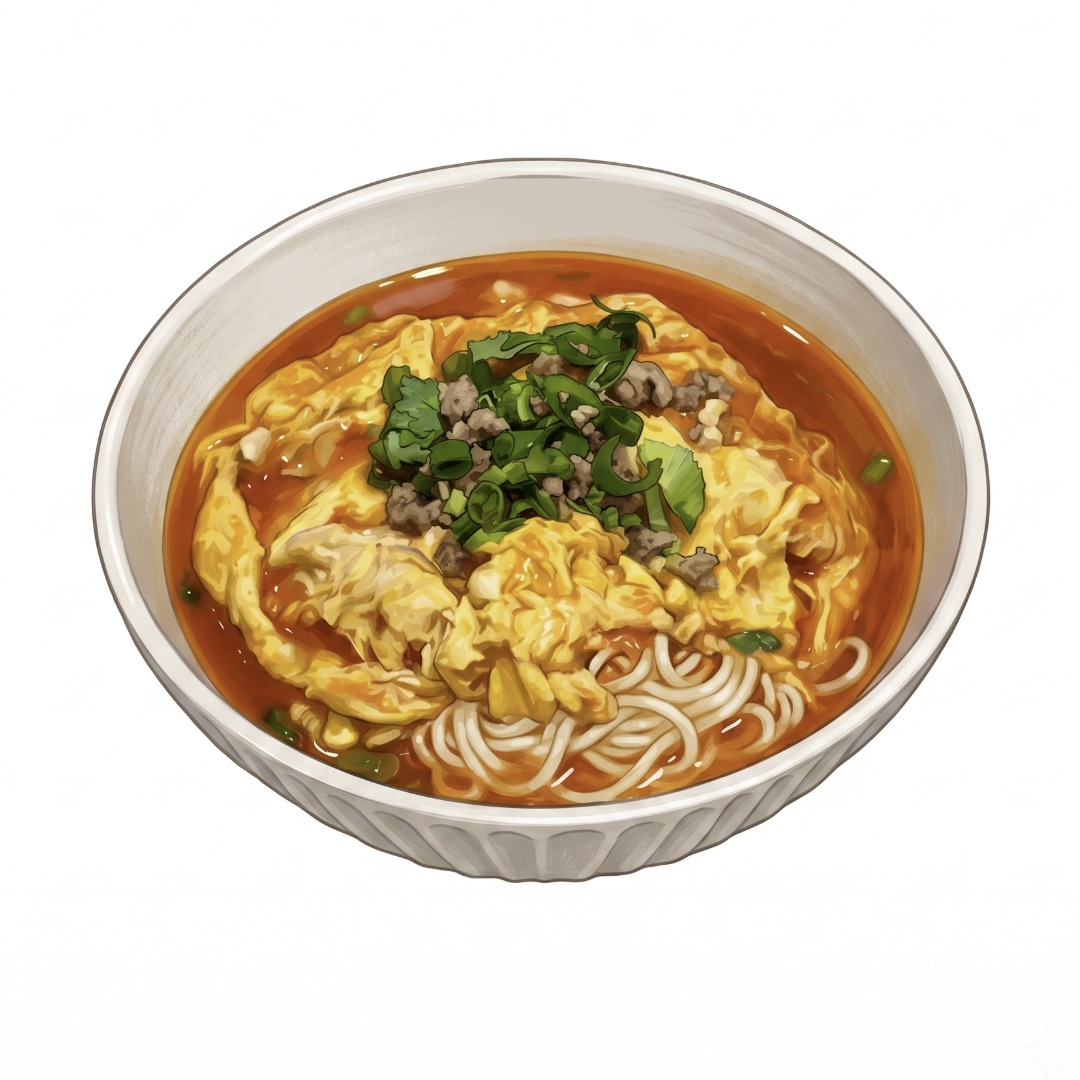
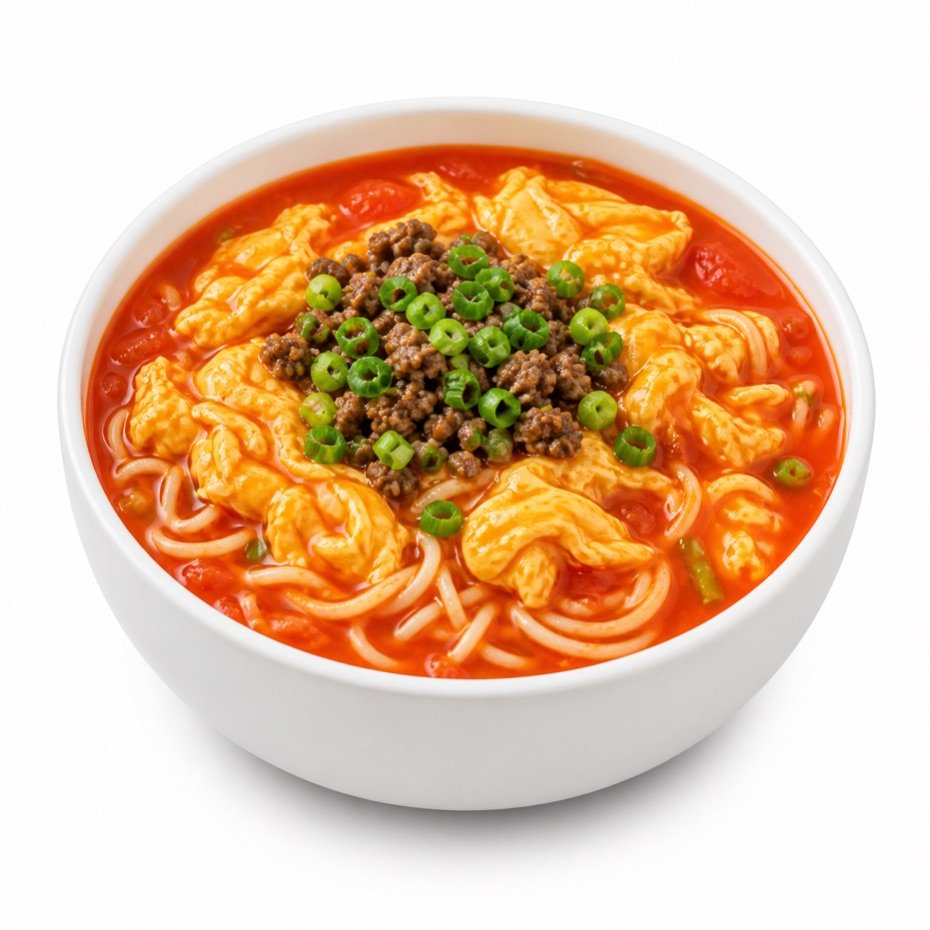
레시피 4개를 추가하고 카드 이미지 9장을 교체한다
레시피
- 예나(의 친구)소스 · 쯔양소스 · 두유피말이 추가 (범이소스는 앞 커밋)
- 두유피말이는 주문 항목 셋이 새로 필요해 ORDER_ITEMS 에 추가했다
  (우삼겹 · 두유피튀김 · 거름망 — 거름망은 도구라 맨 끝)

표기
- 재료 단위의 국자를 스푼으로 옮겼다. 원본 카드가 T(테이블스푼)를 쓰고
  앱이 그것을 스푼으로 적어 왔기 때문이다. 냄비에서 뜨는 주문 줄의 국자
  두 곳(세훈소스 마장 · 토마토탕)은 그대로 두었다
- 맑은 탕을 부르는 말을 세 곳에서 「맹물」로 통일했다
  (메뉴 탭 · 가이드 글 원본과 guide.html · 레시피 주문 항목)
- 세훈소스(간장) 팁을 원본 카드대로 「홍탕 1T」로 되돌렸다

이미지
- 탕 3장(마라훠궈탕·스키야키탕·토마토탕)과 히든메뉴 5장 교체
- 바뀐 파일은 ?v= 를 올렸다. 안 올리면 폰에 옛 그림이 남는다
- AI로 만든 그림에 붙어 있던 출처 「Gemini AI」 8개를 뺐다(사용자 지시)

셀럽
- 쯔양·예나 사진과 출처 표기 추가 (커먼즈 CC BY, credits.html 중복 정리)

diff --git a/script.js b/script.js
@@ -24,7 +24,7 @@
     // 7) 간·기타
     '설탕', '소금', '미원', '만구향',
   ];
-  const ORDER_ITEMS = ['공깃밥', '날계란', '생면', '만두', '팡가시우메기', '새우완자', '유부', '우유/청유 마라훠궈', '토마토탕훠궈', '버섯탕훠궈', '맑은 탕/물'];  // 직원에게 주문하는 항목 (order 에 쓰는 이름)
+  const ORDER_ITEMS = ['공깃밥', '날계란', '생면', '만두', '팡가시우메기', '우삼겹', '새우완자', '유부', '두유피튀김', '우유/청유 마라훠궈', '토마토탕훠궈', '버섯탕훠궈', '맑은 탕/맹물', '거름망'];  // 직원에게 주문하는 항목 (order 에 쓰는 이름)
   const UNITS = ['스푼', '국자', '티스푼', '바퀴', '개', '공기', '그릇', '접시', '인분', '넉넉하게', '적당히', '한 꼬집'];  // 정식 단위 (국자=탕 국물 뜰 때, 그릇=소스바 종지)
 
   // ── 매장(지점) 목록 ──
@@ -174,7 +174,7 @@
       order: [['우유/청유 마라훠궈', '1', '스푼']],
       ings: [['간장소스', '3', '스푼'], ['다진 파', '2', '스푼'], ['다진 마늘', '3', '스푼'], ['양파', '3', '스푼'], ['고수', '2', '스푼'], ['태국고추', '', '적당히']],
       steps: [],
-      tip: '홍탕 1스푼은 취향에 맞게 넣기' },
+      tip: '홍탕 1T는 취향에 맞게 넣기' },
     { id: 's18', date: '2026-06-09', cat: '소스', emoji: '🥣', img: 'assets/cards/세훈소스(마장).jpg?v=1', imgFit: 'cover', tint: 'linear-gradient(160deg,#F6EEDD,#E7D6BA)', name: '세훈소스', ver: '마장', source: 'YouTube 밥은영', star: true, person: '세훈', desc: '유튜브 <b>밥은영</b> 촬영 중 <b>엑소</b>의 <b>세훈</b>이 공개한 소스로, <u>정통파들은 소스바 대신 홍탕에 있는 고추기름을 넣는다</u>라고 했다.',
       order: [['우유/청유 마라훠궈', '1', '국자']],
       ings: [['땅콩참깨소스', '3', '스푼'], ['다진 파', '3', '스푼'], ['양파', '2', '스푼'], ['고수', '1', '스푼'], ['다진 마늘', '0.5', '스푼']],
@@ -221,8 +221,16 @@
       ings: [['굴소스', '1', '바퀴'], ['매운소고기소스', '2', '스푼'], ['다진 마늘', '1', '스푼'], ['다진 파', '1', '스푼'], ['고수', '1', '스푼'], ['참깨', '0.5', '스푼'], ['고추기름', '3', '스푼']],
       steps: [],
       tip: '' },
-    { id: 'b3', cat: '탕', emoji: '🍲', img: 'assets/cards/스키야키탕.jpg?v=1', imgFit: 'cover', tint: 'linear-gradient(160deg,#F3E3CC,#E0C298)', name: '스키야키탕', source: 'Gemini AI', desc: '맑은 탕에 소스바 재료를 넣어서 셀프로 만드는 스키야키탕이다.',
-      order: [['맑은 탕/물', '', '']],
+    { id: 's29', date: '2026-06-11', cat: '소스', emoji: '🥣', img: 'assets/cards/예나(의 친구)소스.jpg', imgFit: 'cover', tint: 'linear-gradient(160deg,#FADFDC,#F1B5AE)', name: '예나(의 친구)소스', source: 'YouTube 제이팍씨 Jay Park', star: true, person: '예나', desc: '<b>박재범</b>의 유튜브 촬영 중 <b>예나</b>가 공개한 소스이다. <b>예나</b>와 같은 고등학교 같은 반 친구가 만든 것으로, <u><b>건희소스</b>가 유행하기 전 어릴 때부터 <b>건희소스</b>와 비슷하게 만들어 먹었다</u>고 한다.',
+      ings: [['땅콩참깨소스', '1', '스푼'], ['스위트칠리소스', '2', '스푼'], ['고추기름', '1', '스푼'], ['굴소스', '1', '스푼'], ['양파', '1', '스푼'], ['다진 마늘', '0.5', '스푼'], ['다진 파', '0.5', '스푼'], ['설탕', '', '적당히']],
+      steps: [],
+      tip: '' },
+    { id: 's30', date: '2025-05-08', cat: '소스', emoji: '🥣', img: 'assets/cards/쯔양소스.jpg', imgFit: 'cover', tint: 'linear-gradient(160deg,#FDE4D6,#F6C4A6)', name: '쯔양소스', source: 'YouTube 쯔양밖정원', star: true, person: '쯔양', desc: '유튜버 <b>쯔양</b>이 본인의 브이로그 채널 <b>쯔양밖정원</b>에서 공개한 특제 소스로, <u>하이디라오를 두 번째 방문했을 때 직원분이 만들어준 소스에 자기가 넣고 싶은 걸 첨가해서 이 맛이 태어났다</u>고 한다.',
+      ings: [['땅콩참깨소스', '2', '스푼'], ['청유훠궈소스', '2', '스푼'], ['버섯소스', '0.5', '스푼'], ['굴소스', '0.25', '스푼'], ['매운소고기소스', '1', '스푼'], ['튀긴대두', '', '적당히'], ['다진 마늘', '0.5', '스푼'], ['다진 파', '', '적당히'], ['산고추/고추장아찌', '', '적당히'], ['땅콩가루', '0.5', '스푼'], ['고추기름', '', '적당히'], ['설탕', '0.33', '스푼']],
+      steps: [],
+      tip: '' },
+    { id: 'b3', cat: '탕', emoji: '🍲', img: 'assets/cards/스키야키탕.jpg?v=2', imgFit: 'cover', tint: 'linear-gradient(160deg,#F3E3CC,#E0C298)', name: '스키야키탕', desc: '맑은 탕에 소스바 재료를 넣어서 셀프로 만드는 스키야키탕이다.',
+      order: [['맑은 탕/맹물', '', '']],
       ings: [['굴소스', '3', '스푼'], ['간장소스', '1', '그릇'], ['오향우육/다진 고기', '2', '스푼'], ['다진 마늘', '0.5', '스푼'], ['다진 파', '0.5', '그릇'], ['설탕', '2', '스푼'], ['소금', '3', '스푼']],
       steps: [
         '국자를 이용해 맑은 탕의 물을 소스 그릇에 덜어둔다',
@@ -230,8 +238,8 @@
         '소스 그릇에 덜어둔 물로 취향에 맞게 간을 맞춘다',
       ],
       tip: '' },
-    { id: 'b4', cat: '탕', emoji: '🍲', img: 'assets/cards/토마토탕.jpg?v=1', imgFit: 'cover', tint: 'linear-gradient(160deg,#FFE9E0,#FFC9B8)', name: '토마토탕', source: 'Gemini AI', desc: '맑은 탕에 소스바 재료를 넣어서 셀프로 만드는 토마토탕이다.',
-      order: [['맑은 탕/물', '', ''], ['우유/청유 마라훠궈', '1~2', '국자']],
+    { id: 'b4', cat: '탕', emoji: '🍲', img: 'assets/cards/토마토탕.jpg?v=2', imgFit: 'cover', tint: 'linear-gradient(160deg,#FFE9E0,#FFC9B8)', name: '토마토탕', desc: '맑은 탕에 소스바 재료를 넣어서 셀프로 만드는 토마토탕이다.',
+      order: [['맑은 탕/맹물', '', ''], ['우유/청유 마라훠궈', '1~2', '국자']],
       ings: [['방울토마토', '2', '접시'], ['굴소스', '2', '그릇']],
       steps: [
         '직원분께 맑은 탕 물의 절반을 빼 달라고 요청한다',
@@ -241,8 +249,8 @@
         '마라훠궈 국물 1~2국자를 토마토탕에 넣고 섞어준다',
       ],
       tip: '굴소스는 취향에 맞게 조절해서 넣기' },
-    { id: 'b5', cat: '탕', emoji: '🍲', img: 'assets/cards/마라훠궈탕.jpg?v=1', imgFit: 'cover', tint: 'linear-gradient(160deg,#F2DDD3,#D9A48F)', name: '마라훠궈탕', source: 'Gemini AI', desc: '맑은 탕에 소스바 재료를 넣어서 셀프로 만드는 마라훠궈탕이다.',
-      order: [['맑은 탕/물', '', '']],
+    { id: 'b5', cat: '탕', emoji: '🍲', img: 'assets/cards/마라훠궈탕.jpg?v=2', imgFit: 'cover', tint: 'linear-gradient(160deg,#F2DDD3,#D9A48F)', name: '마라훠궈탕', desc: '맑은 탕에 소스바 재료를 넣어서 셀프로 만드는 마라훠궈탕이다.',
+      order: [['맑은 탕/맹물', '', '']],
       ings: [['청유훠궈소스', '6', '스푼'], ['산초기름', '6', '스푼'], ['굴소스', '5', '스푼'], ['고추기름', '6', '스푼'], ['땅콩참깨소스', '5', '스푼'], ['다진 마늘', '5', '스푼'], ['간장소스', '4', '스푼'], ['참기름', '4', '스푼'], ['소금', '', '한 꼬집'], ['매운소고기소스', '2', '스푼']],
       steps: [
         '직원분께 맑은 탕 물의 절반을 빼 달라고 요청한다',
@@ -250,14 +258,14 @@
       ],
       tip: '' },
     { id: 'b6', date: '2025-02-05', cat: '탕', emoji: '🍲', img: 'assets/cards/혼자햐탕.jpg?v=1', imgFit: 'cover', tint: 'linear-gradient(160deg,#F2DDD3,#D9A48F)', name: '혼자햐탕', source: 'YouTube 혼자햐', desc: '유튜버 <b>혼자햐</b>가 혼자 하이디라오에 가서 맑은 탕에 소스바 재료를 넣어서 셀프로 만드는 마라탕이다.',
-      order: [['맑은 탕/물', '', '']],
+      order: [['맑은 탕/맹물', '', '']],
       ings: [['땅콩참깨소스', '6', '스푼'], ['참기름', '3', '스푼'], ['산초기름', '3', '스푼'], ['고추기름', '3', '스푼'], ['청유훠궈소스', '3', '스푼'], ['다진 마늘', '3', '스푼'], ['굴소스', '3', '스푼'], ['간장소스', '3', '스푼'], ['참깨', '', '적당히'], ['소금', '', '적당히']],
       steps: [
         '소스바에서 가져온 재료를 물이 끓으면 넣고 계속 끓여준다',
       ],
       tip: '화한 맛이 부족하면 산초기름 더 넣기\n매운맛이 부족하면 청유훠궈소스 더 넣기\n국물에 깊이가 없으면 땅콩참깨소스 더 넣기' },
     { id: 'b7', date: '2026-06-10', cat: '탕', emoji: '🍲', img: 'assets/cards/지새기탕.jpg?v=1', imgFit: 'cover', tint: 'linear-gradient(160deg,#FBEBD0,#EFCB94)', name: '지새기탕', source: 'YouTube 지새기의 인간극장', desc: '유튜버 <b>지새기</b>가 마라탕을 셀프로 만들기 위해 레시피를 미리 공부까지 해갔으나, 정작 소스바 앞에서 본인 마음대로 조합하다가 맛이 애매해졌다. 이를 가엽게 여긴 <s>천사가</s> 직원이 나타나 만들어준 비법 레시피이다.',
-      order: [['맑은 탕/물', '', '']],
+      order: [['맑은 탕/맹물', '', '']],
       ings: [['땅콩참깨소스', '1', '그릇'], ['땅콩참깨소스', '1', '스푼'], ['산초기름', '6', '스푼'], ['소금', '2', '스푼'], ['설탕', '6', '스푼'], ['굴소스', '1', '스푼'], ['마라시즈닝/고춧가루', '1', '스푼'], ['간장소스', '1', '스푼'], ['참기름', '1', '스푼'], ['태국고추', '1', '스푼'], ['다진 마늘', '1', '스푼'], ['매운소고기소스', '1', '스푼'], ['청유훠궈소스', '1', '스푼']],
       steps: [
         '직원분께 맑은 탕 물의 절반을 빼 달라고 요청한다',
@@ -273,7 +281,7 @@
         '충분히 익힌 메기살을 밥에 얹어 으깨 먹는다',
       ],
       tip: '느끼한 것 같으면 홍탕 국물 1숟가락을 밥에 추가하기' },
-    { id: 'r2', cat: '히든메뉴', emoji: '🍚', img: 'assets/cards/토마토달걀밥.jpg', imgFit: 'cover', tint: 'linear-gradient(160deg,#FFE9E0,#FFC9B8)', name: '토마토달걀밥', source: 'Gemini AI', desc: '녹진하게 끓인 토마토탕에 달걀물을 풀어, 밥에 끼얹어 비벼 먹는 히든 메뉴이다.',
+    { id: 'r2', cat: '히든메뉴', emoji: '🍚', img: 'assets/cards/토마토달걀밥.jpg?v=2', imgFit: 'cover', tint: 'linear-gradient(160deg,#FFE9E0,#FFC9B8)', name: '토마토달걀밥', desc: '녹진하게 끓인 토마토탕에 달걀물을 풀어, 밥에 끼얹어 비벼 먹는 히든 메뉴이다.',
       order: [['토마토탕훠궈', '', ''], ['날계란', '1', '개'], ['공깃밥', '1', '공기']],
       ings: [['참기름', '0.5', '스푼'], ['오향우육/다진 고기', '2', '스푼'], ['다진 파', '2', '스푼']],
       steps: [
@@ -293,7 +301,7 @@
         '소스 그릇에 밥을 넣고 푹 우러난 버섯탕 국물을 붓고 잘 섞어 먹는다',
       ],
       tip: '반드시 식사를 거의 끝마쳐 가는 후반부에 먹기' },
-    { id: 'e2', cat: '히든메뉴', emoji: '🥟', img: 'assets/cards/토마토달걀만두.jpg?v=1', imgFit: 'cover', tint: 'linear-gradient(160deg,#FFE9E0,#FFC9B8)', name: '토마토달걀만두', source: 'Gemini AI', desc: '녹진하게 끓인 토마토탕에 달걀물을 풀고 만두를 익혀 먹는 히든 메뉴이다.',
+    { id: 'e2', cat: '히든메뉴', emoji: '🥟', img: 'assets/cards/토마토달걀만두.jpg?v=2', imgFit: 'cover', tint: 'linear-gradient(160deg,#FFE9E0,#FFC9B8)', name: '토마토달걀만두', desc: '녹진하게 끓인 토마토탕에 달걀물을 풀고 만두를 익혀 먹는 히든 메뉴이다.',
       order: [['토마토탕훠궈', '', ''], ['날계란', '1', '개'], ['만두', '1', '인분']],
       ings: [['청유훠궈소스', '1', '티스푼'], ['오향우육/다진 고기', '2', '스푼'], ['다진 파', '2', '스푼']],
       steps: [
@@ -305,7 +313,7 @@
         '만두가 다 익으면 소스 그릇에 토마토계란탕을 끼얹고 만두를 건져 먹는다',
       ],
       tip: '토마토탕훠궈 국물 안의 토마토를 국자로 으깨주기' },
-    { id: 'e1', cat: '히든메뉴', emoji: '🍢', img: 'assets/cards/유부 새우완자.jpg?v=1', imgFit: 'cover', tint: 'linear-gradient(160deg,#F5EFE4,#DCD2C0)', name: '유부 새우완자', source: 'Gemini AI', desc: '유부에 새우완자를 채워 넣어 국물에 익혀 먹는 히든 메뉴이다.',
+    { id: 'e1', cat: '히든메뉴', emoji: '🍢', img: 'assets/cards/유부 새우완자.jpg?v=2', imgFit: 'cover', tint: 'linear-gradient(160deg,#F5EFE4,#DCD2C0)', name: '유부 새우완자', desc: '유부에 새우완자를 채워 넣어 국물에 익혀 먹는 히든 메뉴이다.',
       order: [['새우완자', '1', '인분'], ['유부', '1', '인분']],
       ings: [],
       steps: [
@@ -322,7 +330,16 @@
         '국물에 넣어 익혀 먹는다',
       ],
       tip: '' },
-    { id: 'n2', cat: '히든메뉴', emoji: '🍜', img: 'assets/cards/탄탄면.jpg?v=1', imgFit: 'cover', tint: 'linear-gradient(160deg,#F7E6CE,#E5C08C)', name: '탄탄면', source: 'Gemini AI', desc: '마라훠궈 국물에 익힌 생면을 특제소스에 비벼 먹는 히든 메뉴이다.',
+    { id: 'e4', cat: '히든메뉴', emoji: '🌯', img: 'assets/cards/두유피말이.jpg', imgFit: 'cover', tint: 'linear-gradient(160deg,#FBF0DC,#EBD8B0)', name: '두유피말이', source: 'Instagram @lee._.soom', desc: '두유피튀김을 전골에 담갔다 빼서 고기랑 돌돌돌 말아가지고 전골에 푸우우우욱 익혀서 호록하고 먹는 히든 메뉴이다.',
+      order: [['두유피튀김', '1', '인분'], ['우삼겹', '1', '인분'], ['새우완자', '1', '인분'], ['거름망', '', '']],
+      ings: [],
+      steps: [
+        '두유피튀김을 펼치기 위해 맑은 탕(맹물)에 살짝 담갔다가 뺀다',
+        '길쭉한 채소 그릇에 잘 펼쳐서 우삼겹과 새우완자를 넣고 말아준다',
+        '롤 모양으로 말았다면 먹고 싶은 탕의 거름망 안에 넣어서 고기가 잘 익도록 푹 익혀 먹는다',
+      ],
+      tip: '' },
+    { id: 'n2', cat: '히든메뉴', emoji: '🍜', img: 'assets/cards/탄탄면.jpg?v=2', imgFit: 'cover', tint: 'linear-gradient(160deg,#F7E6CE,#E5C08C)', name: '탄탄면', desc: '마라훠궈 국물에 익힌 생면을 특제소스에 비벼 먹는 히든 메뉴이다.',
       order: [['우유/청유 마라훠궈', '', ''], ['생면', '1', '인분']],
       ings: [['땅콩참깨소스', '1', '스푼'], ['버섯소스', '1', '스푼'], ['굴소스', '1', '스푼'], ['오향우육/다진 고기', '1', '스푼'], ['튀긴대두', '1', '스푼'], ['다진 파', '1', '스푼'], ['땅콩가루', '1', '스푼']],
       steps: [
@@ -331,7 +348,7 @@
         '면이 다 익으면 소스 그릇에 덜어 비벼 먹는다',
       ],
       tip: '' },
-    { id: 'n1', cat: '히든메뉴', emoji: '🍜', img: 'assets/cards/토마토에그누들.jpg', imgFit: 'cover', tint: 'linear-gradient(160deg,#FFECDD,#FFC2A6)', name: '토마토에그누들', source: 'Gemini AI', desc: '녹진하게 끓인 토마토탕에 달걀물을 풀고 생면을 익혀 먹는 히든 메뉴이다.',
+    { id: 'n1', cat: '히든메뉴', emoji: '🍜', img: 'assets/cards/토마토에그누들.jpg?v=2', imgFit: 'cover', tint: 'linear-gradient(160deg,#FFECDD,#FFC2A6)', name: '토마토에그누들', desc: '녹진하게 끓인 토마토탕에 달걀물을 풀고 생면을 익혀 먹는 히든 메뉴이다.',
       order: [['토마토탕훠궈', '', ''], ['날계란', '1', '개'], ['생면', '1', '인분']],
       ings: [['오향우육/다진 고기', '2', '스푼'], ['다진 파', '2', '스푼']],
       steps: [
@@ -1326,10 +1343,10 @@
         '<img class="col-tip-ic" src="assets/icons/bulb.png?v=1" alt="" width="18" height="18" draggable="false">' +
         '<div class="col-tip-body">' +
           '<b class="col-tip-title">처음이라면 전골 4가지 맛을 추천해요</b>' +
-          '<p>여러 탕을 조금씩 맛볼 수 있고, 먹고 싶은 탕만 고른 뒤 나머지 칸은 0원인 맑은 탕(물)으로 선택할 수도 있어요.</p>' +
+          '<p>여러 탕을 조금씩 맛볼 수 있고, 먹고 싶은 탕만 고른 뒤 나머지 칸은 0원인 맑은 탕(맹물)으로 선택할 수도 있어요.</p>' +
           // '넣어' → '셀프소스바에서 재료를 가져와서': 재료를 직접 가지러 간다는 동작이 드러나야
           // 바로 뒤 'STEP 2 소스바에서 소스 만들기'로 이어진다(2026-07-28 사용자 지정).
-          // 앞 문단에서 '맑은 탕(물)'로 한 번 밝혔으므로 여기선 '맑은 탕'으로 받는다.
+          // 앞 문단에서 '맑은 탕(맹물)'로 한 번 밝혔으므로 여기선 '맑은 탕'으로 받는다.
           '<p>맑은 탕은 셀프소스바에서 재료를 가져와서 나만의 탕을 만들거나, 국자를 헹구는 용도로 활용할 수 있어요.</p>' +
         '</div>' +
       '</div>' +
@@ -6373,12 +6390,17 @@
           //    번호는 여러 개가 붙을 수 있어 중복 담기를 그대로 보여준다 — 체크로는 못 하던 것이다.
           // 🔴 썸네일은 **냄비째 그린 카드용**이다 — 타일(국물만)로 바꿔봤더니 「냄비를 고르는
           //    화면」이라는 게 안 읽혔다. 타일은 냄비 칸 안에서만 쓴다.
+          // 🔴 이름 규칙은 메뉴 카드와 같은 것을 쓴다(아래 `이름나누기`) — 끝 괄호는 부제로 내린다.
+          //    예전엔 전골 카드만 `b.n` 을 통째로 찍어서 「맑은 탕(맹물)」처럼 나왔다(2026-08-12 고침).
+          const { 이름: b이름, 부제: b부제 } = 이름나누기(b.n);
+          const b아랫줄 = b.jeju ? 제주줄(b부제)
+            : (b부제 ? `<span class="mn-card-sub">${b부제}</span>` : '');
           return `<button class="mn-card mn-card--broth ${b.img ? '' : 'mn-card--text'}" data-broth="${b.n}">
             <div class="mn-card-thumb ${b.img ? '' : 'is-text'}">${
-              b.img ? `<img src="${IMG(b.n)}" alt="">` : b.n}</div>
+              b.img ? `<img src="${IMG(b.n)}" alt="">` : b이름}</div>
             <span class="mn-card-body">
-              <span class="mn-card-name">${b.n}</span>
-              ${b.jeju ? 제주줄() : ''}
+              <span class="mn-card-name">${b이름}</span>
+              ${b아랫줄}
             </span>
             <span class="mn-card-nums" data-n="${칸번호칸수(b.n)}">${칸번호HTML(b.n)}</span>
           </button>`;

diff --git a/guide.html b/guide.html
@@ -38,7 +38,7 @@
     <h1 class="column-title">어서와~<br>하이디라오는 처음이지?</h1>
     <p class="column-sub">주문부터 소스바 사용까지 · 가이드</p>
   </div>
-  <article class="column-body"><p class="col-lead">하이디라오 방문이 처음이라면, 기다리는 동안 미리 알아보세요.</p><p class="col-lead">태블릿 주문부터 소스 만들기까지, 하딜고고가 하이디라오를 편하게 즐길 수 있도록 도와드릴게요.</p><figure class="col-figure col-figure--no-caption"><img src="assets/columns/guide/order-overview.webp?v=2" width="850" height="1400" loading="lazy" decoding="async" alt="한눈에 보는 이용 순서 — 01 태블릿으로 주문하기, 02 소스바에서 소스 만들기, 03 재료 넣고 익혀 먹기"></figure><hr class="col-divider"><h3 class="column-step column-step--1"><span class="step-no">STEP 1</span>태블릿으로 주문하기</h3><p>자리를 안내받으면, 태블릿에서 가장 먼저 먹고 싶은 탕을 골라요.</p><figure class="col-figure col-figure--no-caption"><img src="assets/columns/guide/tablet-order.webp?v=2" width="880" height="620" loading="lazy" decoding="async" alt="태블릿 주문 화면에서 전골 4가지 맛을 골라 네 칸으로 나뉜 냄비가 표시된 모습"></figure><p>전골 1맛·2가지 맛·4가지 맛 중에서 냄비를 몇 칸으로 나눌지 고르고, 각 칸에 먹고 싶은 탕을 선택하면 돼요. 탕 위치는 냄비 그림에서 드래그해 원하는 자리로 옮길 수 있어요.</p><figure class="col-figure col-figure--no-caption"><img src="assets/columns/guide/hotpot-flavor-select.webp?v=3" width="880" height="382" loading="lazy" decoding="async" alt="전골 1맛·2가지 맛·4가지 맛의 냄비 칸 구성을 나란히 비교한 그림"></figure><p>전골 구성에 따라 한 칸의 크기와 탕 가격이 달라요. 2가지 맛은 한 칸의 양이 더 많아 같은 탕도 가격이 더 높고, 4가지 맛은 한 칸의 양이 적어 가격도 더 낮아요.</p><p>인원수만큼 탕을 고르거나 모든 칸을 탕으로 채울 필요는 없어요. 일행의 취향과 맛보고 싶은 탕의 개수에 맞게 고르면 돼요.</p><div class="col-tip"><img class="col-tip-ic" src="assets/icons/bulb.png?v=1" alt="" width="18" height="18" draggable="false"><div class="col-tip-body"><b class="col-tip-title">처음이라면 전골 4가지 맛을 추천해요</b><p>여러 탕을 조금씩 맛볼 수 있고, 먹고 싶은 탕만 고른 뒤 나머지 칸은 0원인 맑은 탕(물)으로 선택할 수도 있어요.</p><p>맑은 탕은 셀프소스바에서 재료를 가져와서 나만의 탕을 만들거나, 국자를 헹구는 용도로 활용할 수 있어요.</p></div></div><h3>육류·야채류 등 먹을 재료를 주문해요</h3><p>이제 화면을 내려 고기와 채소, 버섯, 두부 등 탕에 넣어 먹을 재료를 골라요.</p><figure class="col-figure col-figure--no-caption"><img src="assets/columns/guide/tablet-ingredients.webp?v=1" width="880" height="619" loading="lazy" decoding="async" alt="태블릿의 재료 주문 화면 — 소고기·삼겹살·새우·두부·버섯·채소가 격자로 놓여 있다"></figure><p>처음부터 많이 시키지 않아도 괜찮아요. 먹어보고 부족하면 옆에 있는 태블릿으로 언제든 추가할 수 있어요.</p><div class="col-tip"><img class="col-tip-ic" src="assets/icons/bulb.png?v=1" alt="" width="18" height="18" draggable="false"><div class="col-tip-body"><b class="col-tip-title">첫 주문이 고민된다면 이렇게 골라보세요</b><p>고기 + 채소·버섯 + 두부·완자를 먼저 고르고, 배가 덜 찼다면 면이나 사이드 메뉴를 추가해보세요.</p><p>색다르게 먹고 싶다면 하딜고고의 히든메뉴를 참고해보세요!</p></div></div><h3>셀프소스바 이용 인원도 선택해요</h3><p>재료까지 골랐다면, 소스바를 이용할 인원수도 함께 선택해요. 셀프소스바는 별도 요금이 있지만, 하이디라오를 제대로 즐기는 핵심이에요.</p><figure class="col-figure col-figure--no-caption col-figure--narrow"><img src="assets/columns/guide/sauce-bar-qty.webp?v=1" width="826" height="1340" loading="lazy" decoding="async" alt="태블릿의 셀프소스바 (1인) 항목 카드와 인원을 더하는 버튼"></figure><p>같은 탕에 같은 고기를 먹어도 어떤 소스를 곁들이느냐에 따라 맛이 완전히 달라지기 때문에 소스바 이용을 추천해요.</p><hr class="col-divider"><h3 class="column-step column-step--2"><span class="step-no">STEP 2</span>소스바에서 소스 만들기</h3><p>주문을 마쳤다면, 음식이 준비되는 동안 자리에서 일어나 셀프소스바에 다녀와요.</p><figure class="col-figure col-figure--no-caption"><img src="assets/columns/guide/sauce-bar.webp?v=1" width="880" height="660" loading="lazy" decoding="async" alt="셀프 소스바 전경 — 여러 가지 소스가 담긴 스테인리스 통이 줄지어 있고 위쪽에 채소와 과일 접시, 아래 진열장에 그릇이 놓여 있다"></figure><p>소스바에는 땅콩참깨소스·스위트칠리소스 같은 베이스 소스부터 다진 마늘·고수 같은 향신료, 땅콩가루와 고추기름까지 다양한 재료가 놓여 있어요.</p><p>소스바 하단에 있는 그릇을 하나 챙겨서, 담고 싶은 재료를 골라 담으면 돼요. 정답은 없으니 취향대로 조합해보세요.</p><div class="col-tip"><img class="col-tip-ic" src="assets/icons/bulb.png?v=1" alt="" width="18" height="18" draggable="false"><div class="col-tip-body"><b class="col-tip-title">소스 종류가 너무 많아 고민된다면 이렇게 해보세요</b><p>처음에는 한국인 입맛에 가장 무난한 건희소스와 쑨디2호소스를 만들어보세요.</p><p>특히 건희소스는 대한민국에서 가장 유명한 국민 소스라 꼭 한번 먹어보는 걸 추천해요. 달달한 게 입맛에 안 맞는다면 스위트칠리소스나 설탕의 양을 줄여 덜 달게 만들어보세요.</p></div></div><div class="column-sauce-list"><div class="col-sauce col-sauce--static"><img class="col-sauce-thumb" src="assets/cards/건희소스(오리지널)_2021.jpg?v=3" alt="" draggable="false"><span class="col-sauce-meta"><span class="col-sauce-name">건희소스</span><span class="col-sauce-ver">오리지널 · 2021</span></span></div><div class="col-sauce col-sauce--static"><img class="col-sauce-thumb" src="assets/cards/쑨디2호소스_2022.jpg?v=3" alt="" draggable="false"><span class="col-sauce-meta"><span class="col-sauce-name">쑨디2호소스</span><span class="col-sauce-ver">2022</span></span></div></div><hr class="col-divider"><h3 class="column-step column-step--3"><span class="step-no">STEP 3</span>재료 넣고 익혀 먹기</h3><p>소스를 만들어 자리로 돌아온 뒤, 탕이 끓기 시작하면 이제 재료를 넣어 익힐 준비가 된 거예요.</p><figure class="col-figure col-figure--no-caption"><img src="assets/columns/guide/table-setting.webp?v=1" width="880" height="660" loading="lazy" decoding="async" alt="식탁 전경 — 네 칸으로 나뉜 전골 냄비에 마라·토마토·버섯·맑은 탕이 담겨 있고, 둘레에 소고기·채소·버섯·완자·두부·연근·당면 접시와 소스 종지 두 개가 놓여 있다"></figure><p>주문한 재료가 나오면 먹을 만큼씩 나눠 넣어보세요. 한꺼번에 넣으면 국물 속에서 재료를 찾기 어렵고, 못 건진 재료는 결국 너무 익어버려요. 조금씩 넣어야 가장 맛있는 상태로 천천히 즐길 수 있어요.</p><p>알맞게 익은 재료는 소스바에서 만들어온 소스에 찍어 드세요. 먹다가 소스가 부족하거나 입에 안 맞으면, 소스바에 다시 가서 재료를 더하거나 새로 만들어도 돼요.</p><div class="col-tip"><img class="col-tip-ic" src="assets/icons/bulb.png?v=1" alt="" width="18" height="18" draggable="false"><div class="col-tip-body"><b class="col-tip-title">거름망이 있는지 물어보세요</b><p>당면처럼 집게로 잡기 어려운 재료, 메기살처럼 잘 부서지는 재료는 거름망에 넣어 익히면 건져 먹기 편해요. 지점이나 상황에 따라 준비되어 있지 않을 수 있으니 직원에게 물어보고 요청해보세요.</p></div></div><hr class="col-divider"><p>입장 대기가 끝났다면, 이제 하이디라오를 재밌게 즐겨보세요! 아직 기다리는 중이라면 하딜고고의 레시피를 구경하며 기다려도 좋아요.</p><p class="col-outro col-outro--plain">소스바 앞에서 헤매지 않도록, <span class="col-brand">하딜고고</span>가 함께할게요.</p><a class="col-cta" href="./">하딜고고에서 더 보기</a></article>
+  <article class="column-body"><p class="col-lead">하이디라오 방문이 처음이라면, 기다리는 동안 미리 알아보세요.</p><p class="col-lead">태블릿 주문부터 소스 만들기까지, 하딜고고가 하이디라오를 편하게 즐길 수 있도록 도와드릴게요.</p><figure class="col-figure col-figure--no-caption"><img src="assets/columns/guide/order-overview.webp?v=2" width="850" height="1400" loading="lazy" decoding="async" alt="한눈에 보는 이용 순서 — 01 태블릿으로 주문하기, 02 소스바에서 소스 만들기, 03 재료 넣고 익혀 먹기"></figure><hr class="col-divider"><h3 class="column-step column-step--1"><span class="step-no">STEP 1</span>태블릿으로 주문하기</h3><p>자리를 안내받으면, 태블릿에서 가장 먼저 먹고 싶은 탕을 골라요.</p><figure class="col-figure col-figure--no-caption"><img src="assets/columns/guide/tablet-order.webp?v=2" width="880" height="620" loading="lazy" decoding="async" alt="태블릿 주문 화면에서 전골 4가지 맛을 골라 네 칸으로 나뉜 냄비가 표시된 모습"></figure><p>전골 1맛·2가지 맛·4가지 맛 중에서 냄비를 몇 칸으로 나눌지 고르고, 각 칸에 먹고 싶은 탕을 선택하면 돼요. 탕 위치는 냄비 그림에서 드래그해 원하는 자리로 옮길 수 있어요.</p><figure class="col-figure col-figure--no-caption"><img src="assets/columns/guide/hotpot-flavor-select.webp?v=3" width="880" height="382" loading="lazy" decoding="async" alt="전골 1맛·2가지 맛·4가지 맛의 냄비 칸 구성을 나란히 비교한 그림"></figure><p>전골 구성에 따라 한 칸의 크기와 탕 가격이 달라요. 2가지 맛은 한 칸의 양이 더 많아 같은 탕도 가격이 더 높고, 4가지 맛은 한 칸의 양이 적어 가격도 더 낮아요.</p><p>인원수만큼 탕을 고르거나 모든 칸을 탕으로 채울 필요는 없어요. 일행의 취향과 맛보고 싶은 탕의 개수에 맞게 고르면 돼요.</p><div class="col-tip"><img class="col-tip-ic" src="assets/icons/bulb.png?v=1" alt="" width="18" height="18" draggable="false"><div class="col-tip-body"><b class="col-tip-title">처음이라면 전골 4가지 맛을 추천해요</b><p>여러 탕을 조금씩 맛볼 수 있고, 먹고 싶은 탕만 고른 뒤 나머지 칸은 0원인 맑은 탕(맹물)으로 선택할 수도 있어요.</p><p>맑은 탕은 셀프소스바에서 재료를 가져와서 나만의 탕을 만들거나, 국자를 헹구는 용도로 활용할 수 있어요.</p></div></div><h3>육류·야채류 등 먹을 재료를 주문해요</h3><p>이제 화면을 내려 고기와 채소, 버섯, 두부 등 탕에 넣어 먹을 재료를 골라요.</p><figure class="col-figure col-figure--no-caption"><img src="assets/columns/guide/tablet-ingredients.webp?v=1" width="880" height="619" loading="lazy" decoding="async" alt="태블릿의 재료 주문 화면 — 소고기·삼겹살·새우·두부·버섯·채소가 격자로 놓여 있다"></figure><p>처음부터 많이 시키지 않아도 괜찮아요. 먹어보고 부족하면 옆에 있는 태블릿으로 언제든 추가할 수 있어요.</p><div class="col-tip"><img class="col-tip-ic" src="assets/icons/bulb.png?v=1" alt="" width="18" height="18" draggable="false"><div class="col-tip-body"><b class="col-tip-title">첫 주문이 고민된다면 이렇게 골라보세요</b><p>고기 + 채소·버섯 + 두부·완자를 먼저 고르고, 배가 덜 찼다면 면이나 사이드 메뉴를 추가해보세요.</p><p>색다르게 먹고 싶다면 하딜고고의 히든메뉴를 참고해보세요!</p></div></div><h3>셀프소스바 이용 인원도 선택해요</h3><p>재료까지 골랐다면, 소스바를 이용할 인원수도 함께 선택해요. 셀프소스바는 별도 요금이 있지만, 하이디라오를 제대로 즐기는 핵심이에요.</p><figure class="col-figure col-figure--no-caption col-figure--narrow"><img src="assets/columns/guide/sauce-bar-qty.webp?v=1" width="826" height="1340" loading="lazy" decoding="async" alt="태블릿의 셀프소스바 (1인) 항목 카드와 인원을 더하는 버튼"></figure><p>같은 탕에 같은 고기를 먹어도 어떤 소스를 곁들이느냐에 따라 맛이 완전히 달라지기 때문에 소스바 이용을 추천해요.</p><hr class="col-divider"><h3 class="column-step column-step--2"><span class="step-no">STEP 2</span>소스바에서 소스 만들기</h3><p>주문을 마쳤다면, 음식이 준비되는 동안 자리에서 일어나 셀프소스바에 다녀와요.</p><figure class="col-figure col-figure--no-caption"><img src="assets/columns/guide/sauce-bar.webp?v=1" width="880" height="660" loading="lazy" decoding="async" alt="셀프 소스바 전경 — 여러 가지 소스가 담긴 스테인리스 통이 줄지어 있고 위쪽에 채소와 과일 접시, 아래 진열장에 그릇이 놓여 있다"></figure><p>소스바에는 땅콩참깨소스·스위트칠리소스 같은 베이스 소스부터 다진 마늘·고수 같은 향신료, 땅콩가루와 고추기름까지 다양한 재료가 놓여 있어요.</p><p>소스바 하단에 있는 그릇을 하나 챙겨서, 담고 싶은 재료를 골라 담으면 돼요. 정답은 없으니 취향대로 조합해보세요.</p><div class="col-tip"><img class="col-tip-ic" src="assets/icons/bulb.png?v=1" alt="" width="18" height="18" draggable="false"><div class="col-tip-body"><b class="col-tip-title">소스 종류가 너무 많아 고민된다면 이렇게 해보세요</b><p>처음에는 한국인 입맛에 가장 무난한 건희소스와 쑨디2호소스를 만들어보세요.</p><p>특히 건희소스는 대한민국에서 가장 유명한 국민 소스라 꼭 한번 먹어보는 걸 추천해요. 달달한 게 입맛에 안 맞는다면 스위트칠리소스나 설탕의 양을 줄여 덜 달게 만들어보세요.</p></div></div><div class="column-sauce-list"><div class="col-sauce col-sauce--static"><img class="col-sauce-thumb" src="assets/cards/건희소스(오리지널)_2021.jpg?v=3" alt="" draggable="false"><span class="col-sauce-meta"><span class="col-sauce-name">건희소스</span><span class="col-sauce-ver">오리지널 · 2021</span></span></div><div class="col-sauce col-sauce--static"><img class="col-sauce-thumb" src="assets/cards/쑨디2호소스_2022.jpg?v=3" alt="" draggable="false"><span class="col-sauce-meta"><span class="col-sauce-name">쑨디2호소스</span><span class="col-sauce-ver">2022</span></span></div></div><hr class="col-divider"><h3 class="column-step column-step--3"><span class="step-no">STEP 3</span>재료 넣고 익혀 먹기</h3><p>소스를 만들어 자리로 돌아온 뒤, 탕이 끓기 시작하면 이제 재료를 넣어 익힐 준비가 된 거예요.</p><figure class="col-figure col-figure--no-caption"><img src="assets/columns/guide/table-setting.webp?v=1" width="880" height="660" loading="lazy" decoding="async" alt="식탁 전경 — 네 칸으로 나뉜 전골 냄비에 마라·토마토·버섯·맑은 탕이 담겨 있고, 둘레에 소고기·채소·버섯·완자·두부·연근·당면 접시와 소스 종지 두 개가 놓여 있다"></figure><p>주문한 재료가 나오면 먹을 만큼씩 나눠 넣어보세요. 한꺼번에 넣으면 국물 속에서 재료를 찾기 어렵고, 못 건진 재료는 결국 너무 익어버려요. 조금씩 넣어야 가장 맛있는 상태로 천천히 즐길 수 있어요.</p><p>알맞게 익은 재료는 소스바에서 만들어온 소스에 찍어 드세요. 먹다가 소스가 부족하거나 입에 안 맞으면, 소스바에 다시 가서 재료를 더하거나 새로 만들어도 돼요.</p><div class="col-tip"><img class="col-tip-ic" src="assets/icons/bulb.png?v=1" alt="" width="18" height="18" draggable="false"><div class="col-tip-body"><b class="col-tip-title">거름망이 있는지 물어보세요</b><p>당면처럼 집게로 잡기 어려운 재료, 메기살처럼 잘 부서지는 재료는 거름망에 넣어 익히면 건져 먹기 편해요. 지점이나 상황에 따라 준비되어 있지 않을 수 있으니 직원에게 물어보고 요청해보세요.</p></div></div><hr class="col-divider"><p>입장 대기가 끝났다면, 이제 하이디라오를 재밌게 즐겨보세요! 아직 기다리는 중이라면 하딜고고의 레시피를 구경하며 기다려도 좋아요.</p><p class="col-outro col-outro--plain">소스바 앞에서 헤매지 않도록, <span class="col-brand">하딜고고</span>가 함께할게요.</p><a class="col-cta" href="./">하딜고고에서 더 보기</a></article>
   
   
   

diff --git a/credits.html b/credits.html
@@ -91,19 +91,19 @@
         </div>
       </li>
       <li class="credit-item">
-        <img class="credit-thumb" src="assets/people/우기.jpg" width="40" height="40" alt="" draggable="false">
-        <div class="credit-meta">
-          <span class="credit-name">우기</span>
-          <span class="credit-by">사진 NewsInstar · 2019년 · 정사각형으로 자름</span>
-          <span class="credit-links"><a href="https://commons.wikimedia.org/wiki/File:Yuqi_at_33rd_Golden_Disc_Awards_red_carpet_on_January,5_2019_04.png" target="_blank" rel="noopener noreferrer">원본</a><a href="https://creativecommons.org/licenses/by/3.0/deed.ko" target="_blank" rel="noopener noreferrer">CC BY 3.0</a></span>
-        </div>
-      </li>
-      <li class="credit-item">
         <img class="credit-thumb" src="assets/people/예나.jpg" width="40" height="40" alt="" draggable="false">
         <div class="credit-meta">
           <span class="credit-name">예나</span>
           <span class="credit-by">사진 티티 스튜디오(TT STUDIO) · 2025년 · 정사각형으로 자름</span>
           <span class="credit-links"><a href="https://commons.wikimedia.org/wiki/File:YENA_2025_TT_STUDIO_smiling.png" target="_blank" rel="noopener noreferrer">원본</a><a href="https://creativecommons.org/licenses/by/3.0/deed.ko" target="_blank" rel="noopener noreferrer">CC BY 3.0</a></span>
+        </div>
+      </li>
+      <li class="credit-item">
+        <img class="credit-thumb" src="assets/people/우기.jpg" width="40" height="40" alt="" draggable="false">
+        <div class="credit-meta">
+          <span class="credit-name">우기</span>
+          <span class="credit-by">사진 NewsInstar · 2019년 · 정사각형으로 자름</span>
+          <span class="credit-links"><a href="https://commons.wikimedia.org/wiki/File:Yuqi_at_33rd_Golden_Disc_Awards_red_carpet_on_January,5_2019_04.png" target="_blank" rel="noopener noreferrer">원본</a><a href="https://creativecommons.org/licenses/by/3.0/deed.ko" target="_blank" rel="noopener noreferrer">CC BY 3.0</a></span>
         </div>
       </li>
       <li class="credit-item">
@@ -130,7 +130,7 @@
           <span class="credit-links"><a href="https://commons.wikimedia.org/wiki/File:Tzuyang_in_December_2025.png" target="_blank" rel="noopener noreferrer">원본</a><a href="https://creativecommons.org/licenses/by/4.0/deed.ko" target="_blank" rel="noopener noreferrer">CC BY 4.0</a></span>
         </div>
       </li>
-    </ul>
+</ul>
   </section>
 
   <section class="credit-sec">

diff --git a/index.html b/index.html
@@ -1254,8 +1254,8 @@
 </div>
 
 <!-- 메뉴 데이터 — `node .claude/make_menu_data.mjs`가 메뉴.md 에서 자동 생성한다. 손으로 고치지 말 것 -->
-<script src="menu-data.js?v=5"></script>
-<script src="script.js?v=661"></script>
+<script src="menu-data.js?v=6"></script>
+<script src="script.js?v=680"></script>
 
 <!-- Cloudflare Web Analytics --><script type='module' src='https://static.cloudflareinsights.com/beacon.min.js' data-cf-beacon='{"token": "d7c0ac8f66544156bca23d2c7f84c961"}'></script><!-- End Cloudflare Web Analytics -->
 </body>

diff --git a/menu-data.js b/menu-data.js
@@ -1139,7 +1139,7 @@ window.MENU_DATA = {
    "tile": true
   },
   {
-   "n": "맑은 탕",
+   "n": "맑은 탕(맹물)",
    "img": true,
    "jeju": false,
    "tile": true
